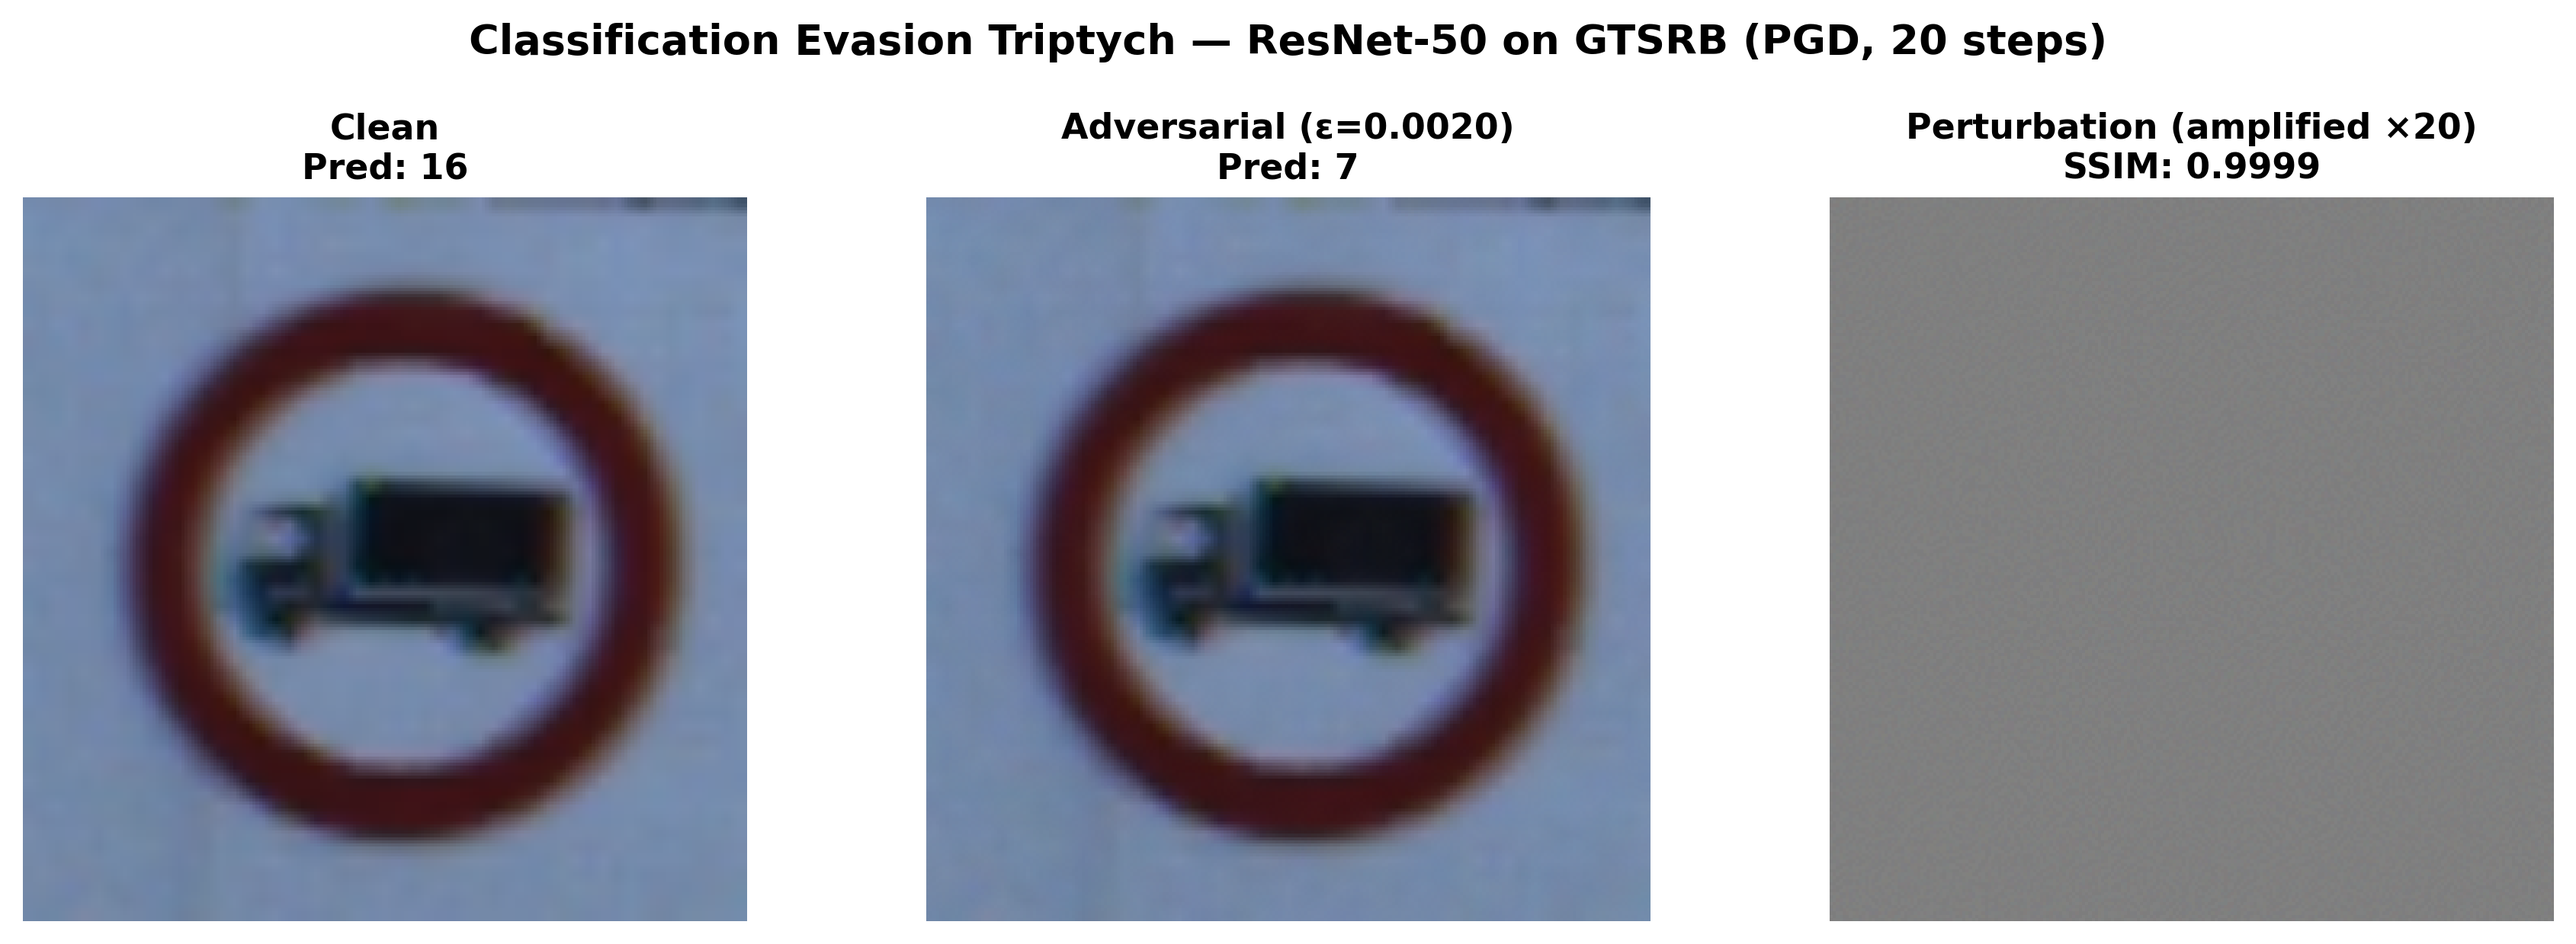
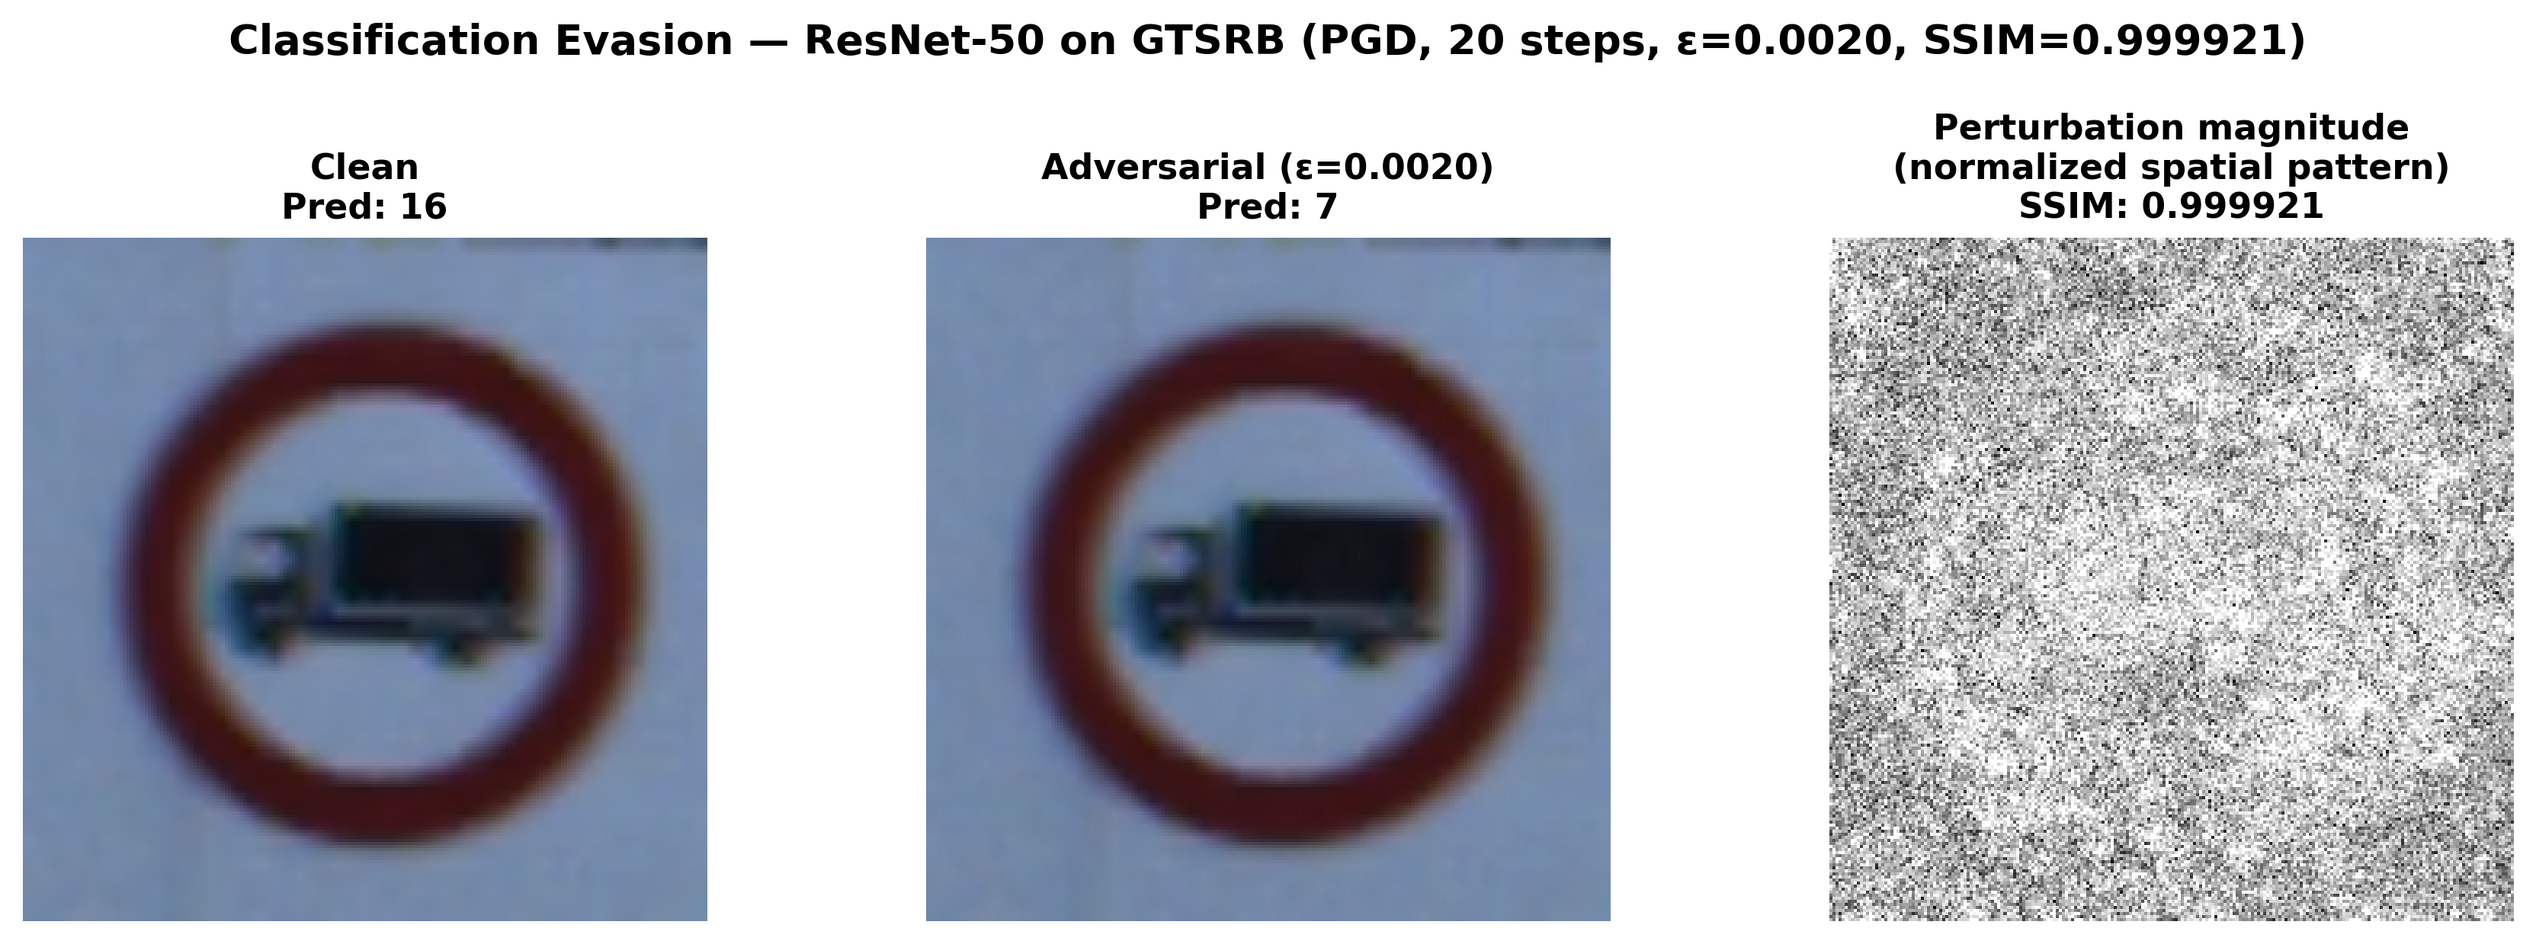
Update evasion triptych: normalize perturbation magnitude for visibility

diff --git a/make_triptych.py b/make_triptych.py
@@ -232,8 +232,16 @@ print(f'ε (normalized space): {eps:.6f}')
 # ────────────────────────────────────────────────────────────────
 # VISUALIZATION: THREE PANELS
 # ────────────────────────────────────────────────────────────────
-# Amplify perturbation for visibility: clip(0.5 + 20*delta, 0, 1)
-delta_amplified = torch.clamp(0.5 + 20 * delta, 0, 1)
+# Visualize perturbation: use absolute magnitude normalized within image
+# Since ε is tiny (0.002), we normalize per-pixel magnitude to [0,1] for visibility
+delta_mag = torch.sqrt((delta ** 2).sum(dim=1, keepdim=True)).clamp(1e-8)  # magnitude per pixel
+max_mag = delta_mag.max().item()
+min_mag = delta_mag.min().item()
+print(f'Perturbation magnitude: min={min_mag:.6f}, max={max_mag:.6f}')
+
+# Normalize magnitude to [0,1] within the image (shows spatial pattern of attack)
+delta_vis = (delta_mag - min_mag) / (max_mag - min_mag + 1e-8)
+delta_vis = delta_vis.repeat(1, 3, 1, 1)  # replicate to RGB
 
 fig, axes = plt.subplots(1, 3, figsize=(12, 4))
 
@@ -249,13 +257,13 @@ ax.imshow(x_adv_01.squeeze(0).permute(1, 2, 0).cpu().numpy())
 ax.set_title(f'Adversarial (ε={eps:.4f})\nPred: {adv_pred}', fontsize=11, fontweight='bold')
 ax.axis('off')
 
-# Panel 3: Amplified Perturbation
+# Panel 3: Amplified Perturbation (grayscale magnitude)
 ax = axes[2]
-ax.imshow(delta_amplified.squeeze(0).permute(1, 2, 0).cpu().numpy())
-ax.set_title(f'Perturbation (amplified ×20)\nSSIM: {ssim_val:.4f}', fontsize=11, fontweight='bold')
+ax.imshow(delta_vis.squeeze(0).permute(1, 2, 0).cpu().numpy(), cmap='hot')
+ax.set_title(f'Perturbation magnitude\n(normalized spatial pattern)\nSSIM: {ssim_val:.6f}', fontsize=11, fontweight='bold')
 ax.axis('off')
 
-plt.suptitle(f'Classification Evasion Triptych — ResNet-50 on GTSRB (PGD, {PGD_STEPS} steps)', 
+plt.suptitle(f'Classification Evasion — ResNet-50 on GTSRB (PGD, {PGD_STEPS} steps, ε={eps:.4f}, SSIM={ssim_val:.6f})', 
              fontsize=13, fontweight='bold', y=1.02)
 plt.tight_layout()
 
